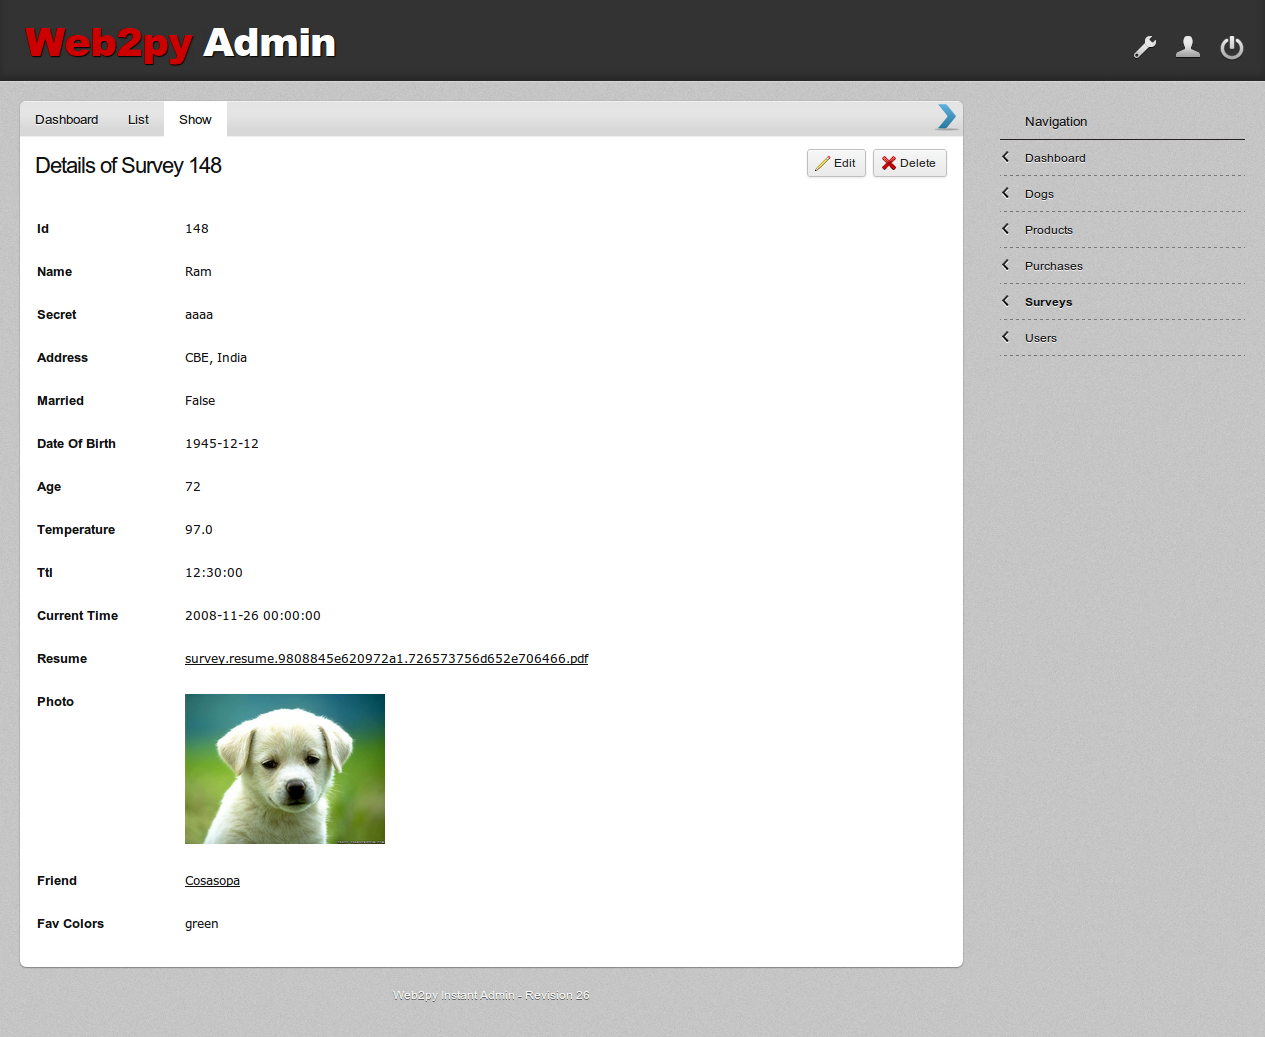
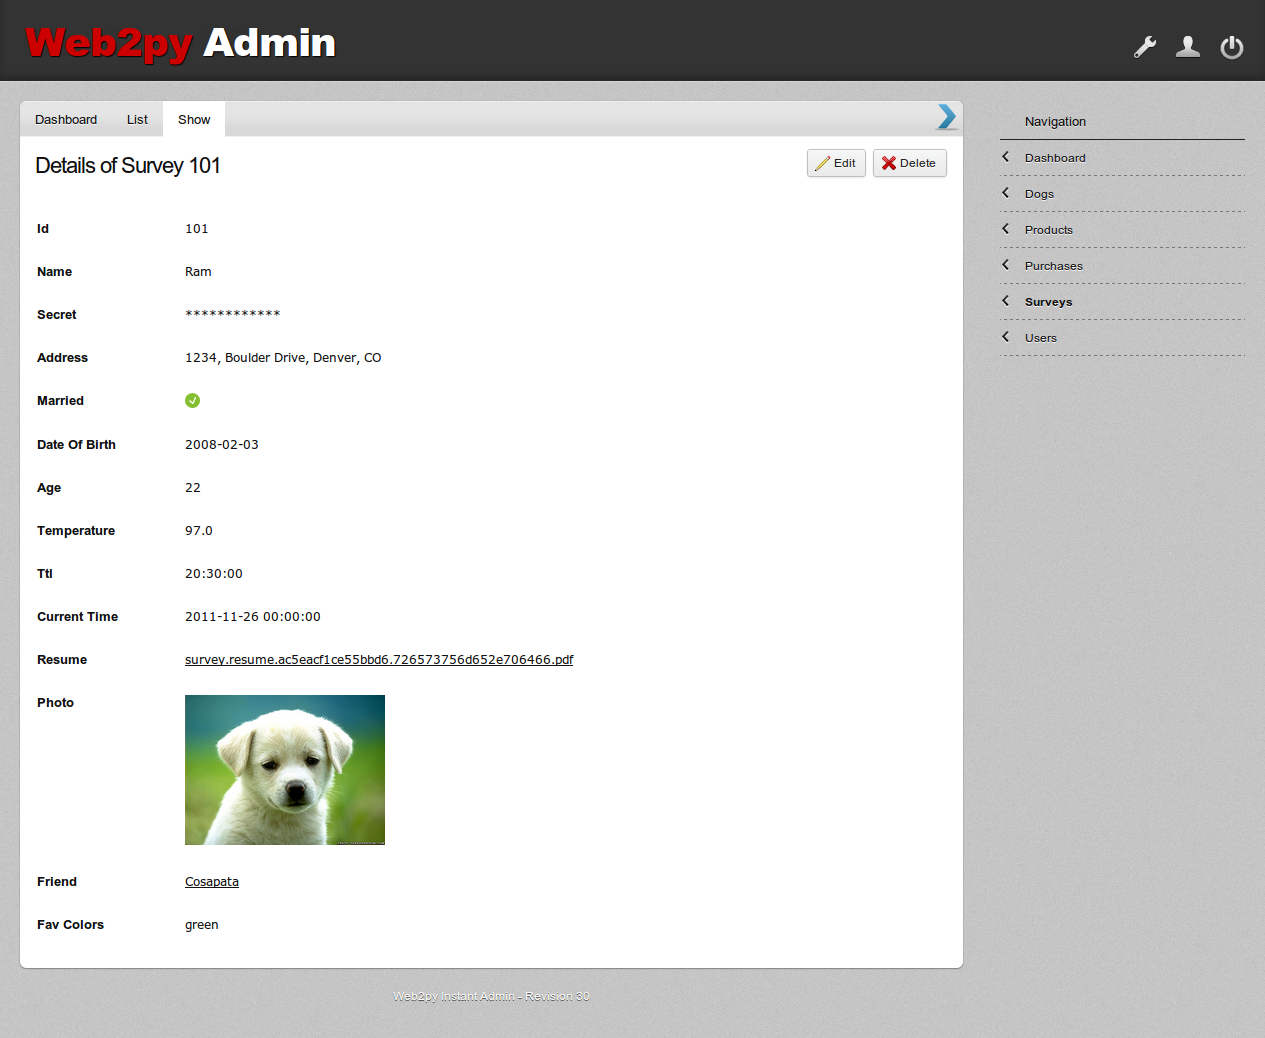
Fix for password fields in show page

diff --git a/views/plugin_instant_admin/revision.html b/views/plugin_instant_admin/revision.html
@@ -1,1 +1,1 @@
-{{revision='30'}}
+{{revision='31'}}

diff --git a/models/plugin_instant_admin.py b/models/plugin_instant_admin.py
@@ -108,6 +108,9 @@ def pretty_value(table, row, field_name):
     if field.type is 'blob':
         value = 'BLOB'
 
+    elif field.type is 'password':
+        value = '************'
+
     elif field.type.startswith('reference'):
         refers_to = field.type[10:]
         link_to = URL('show', args=(refers_to, original_value))
